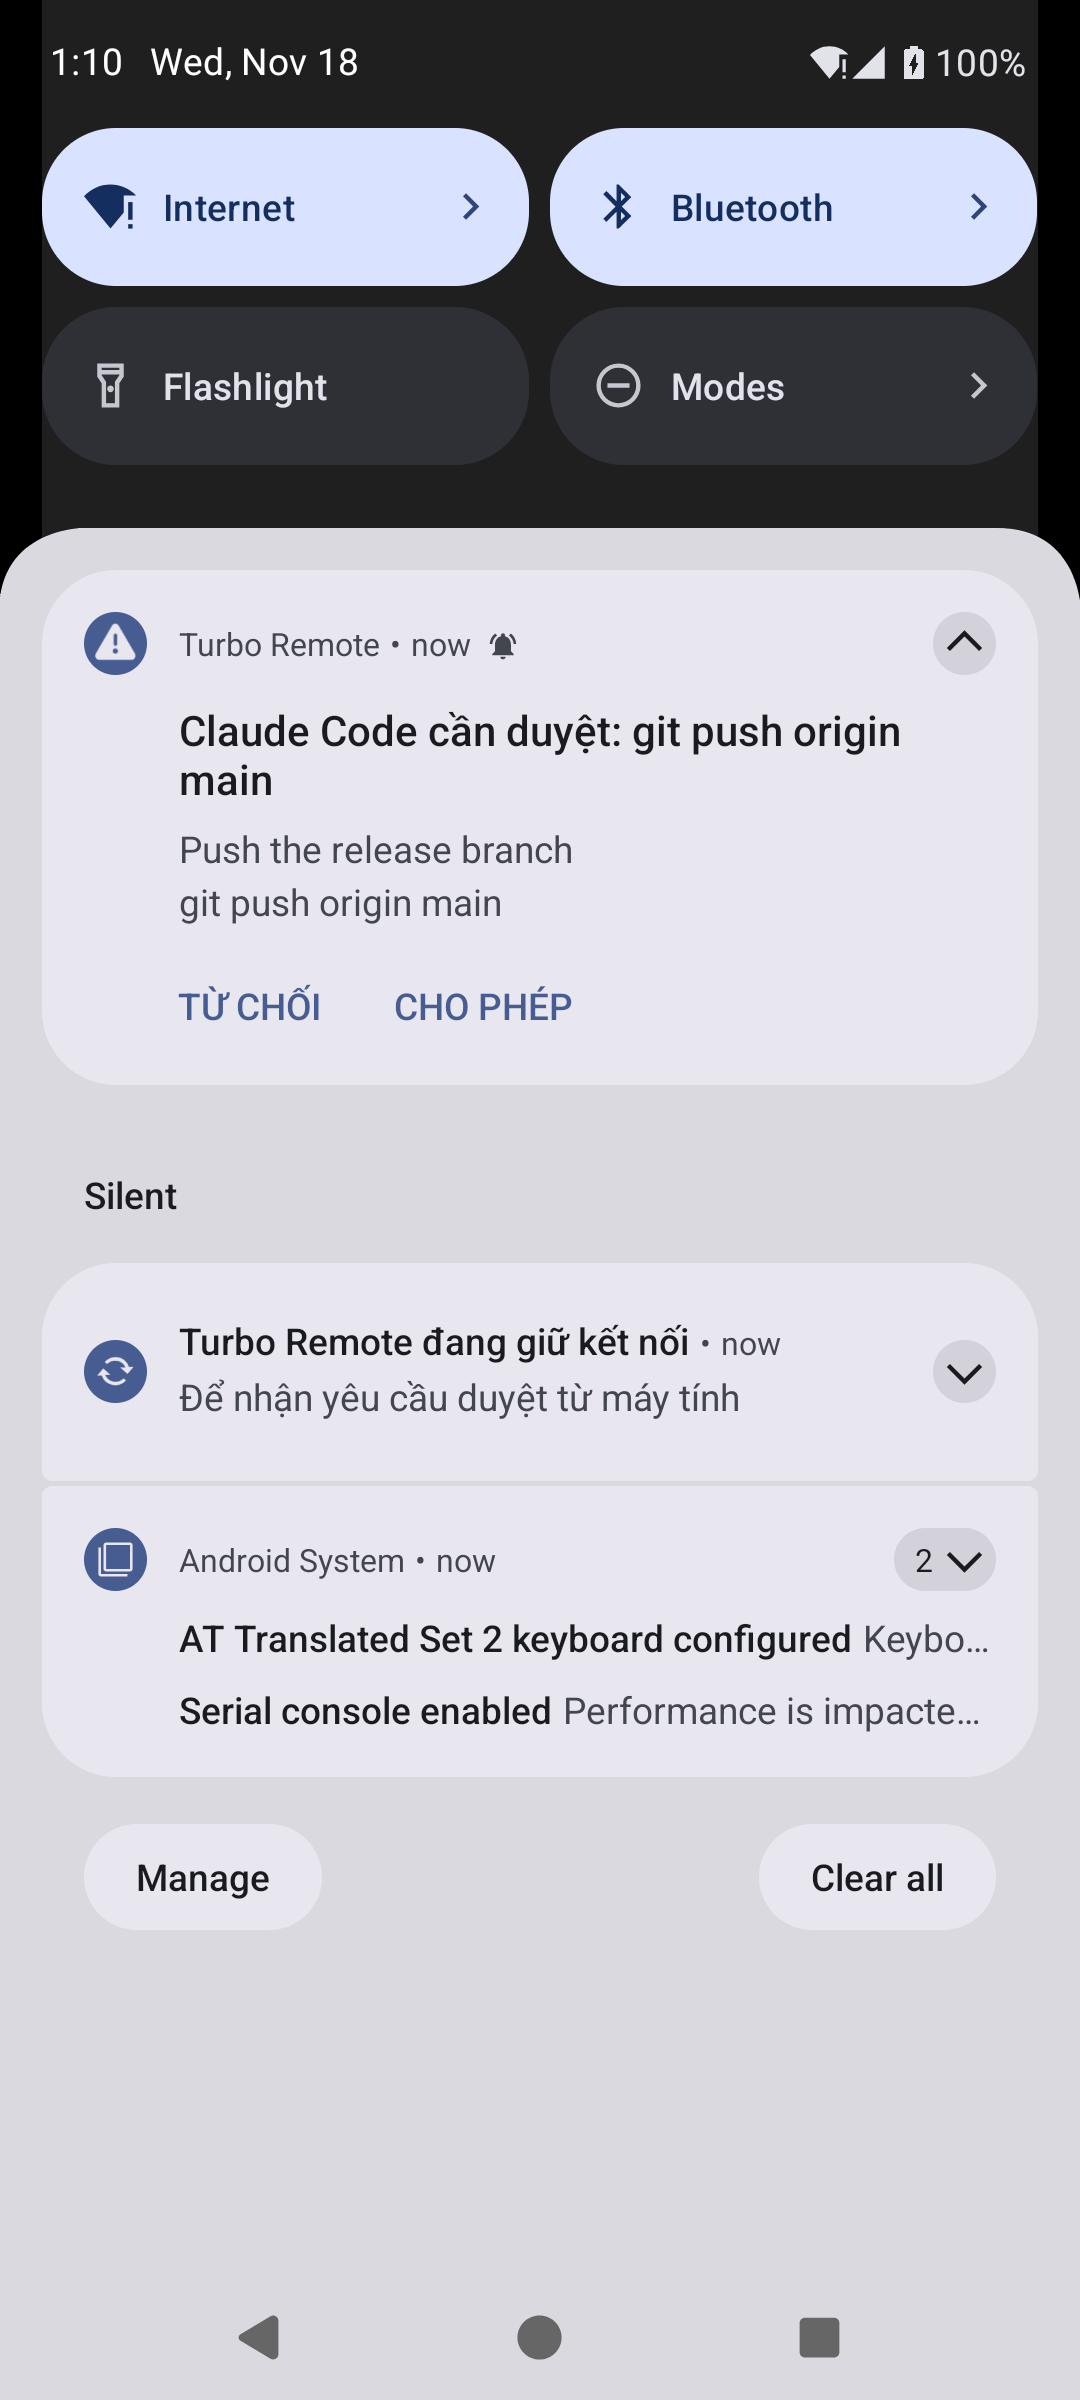
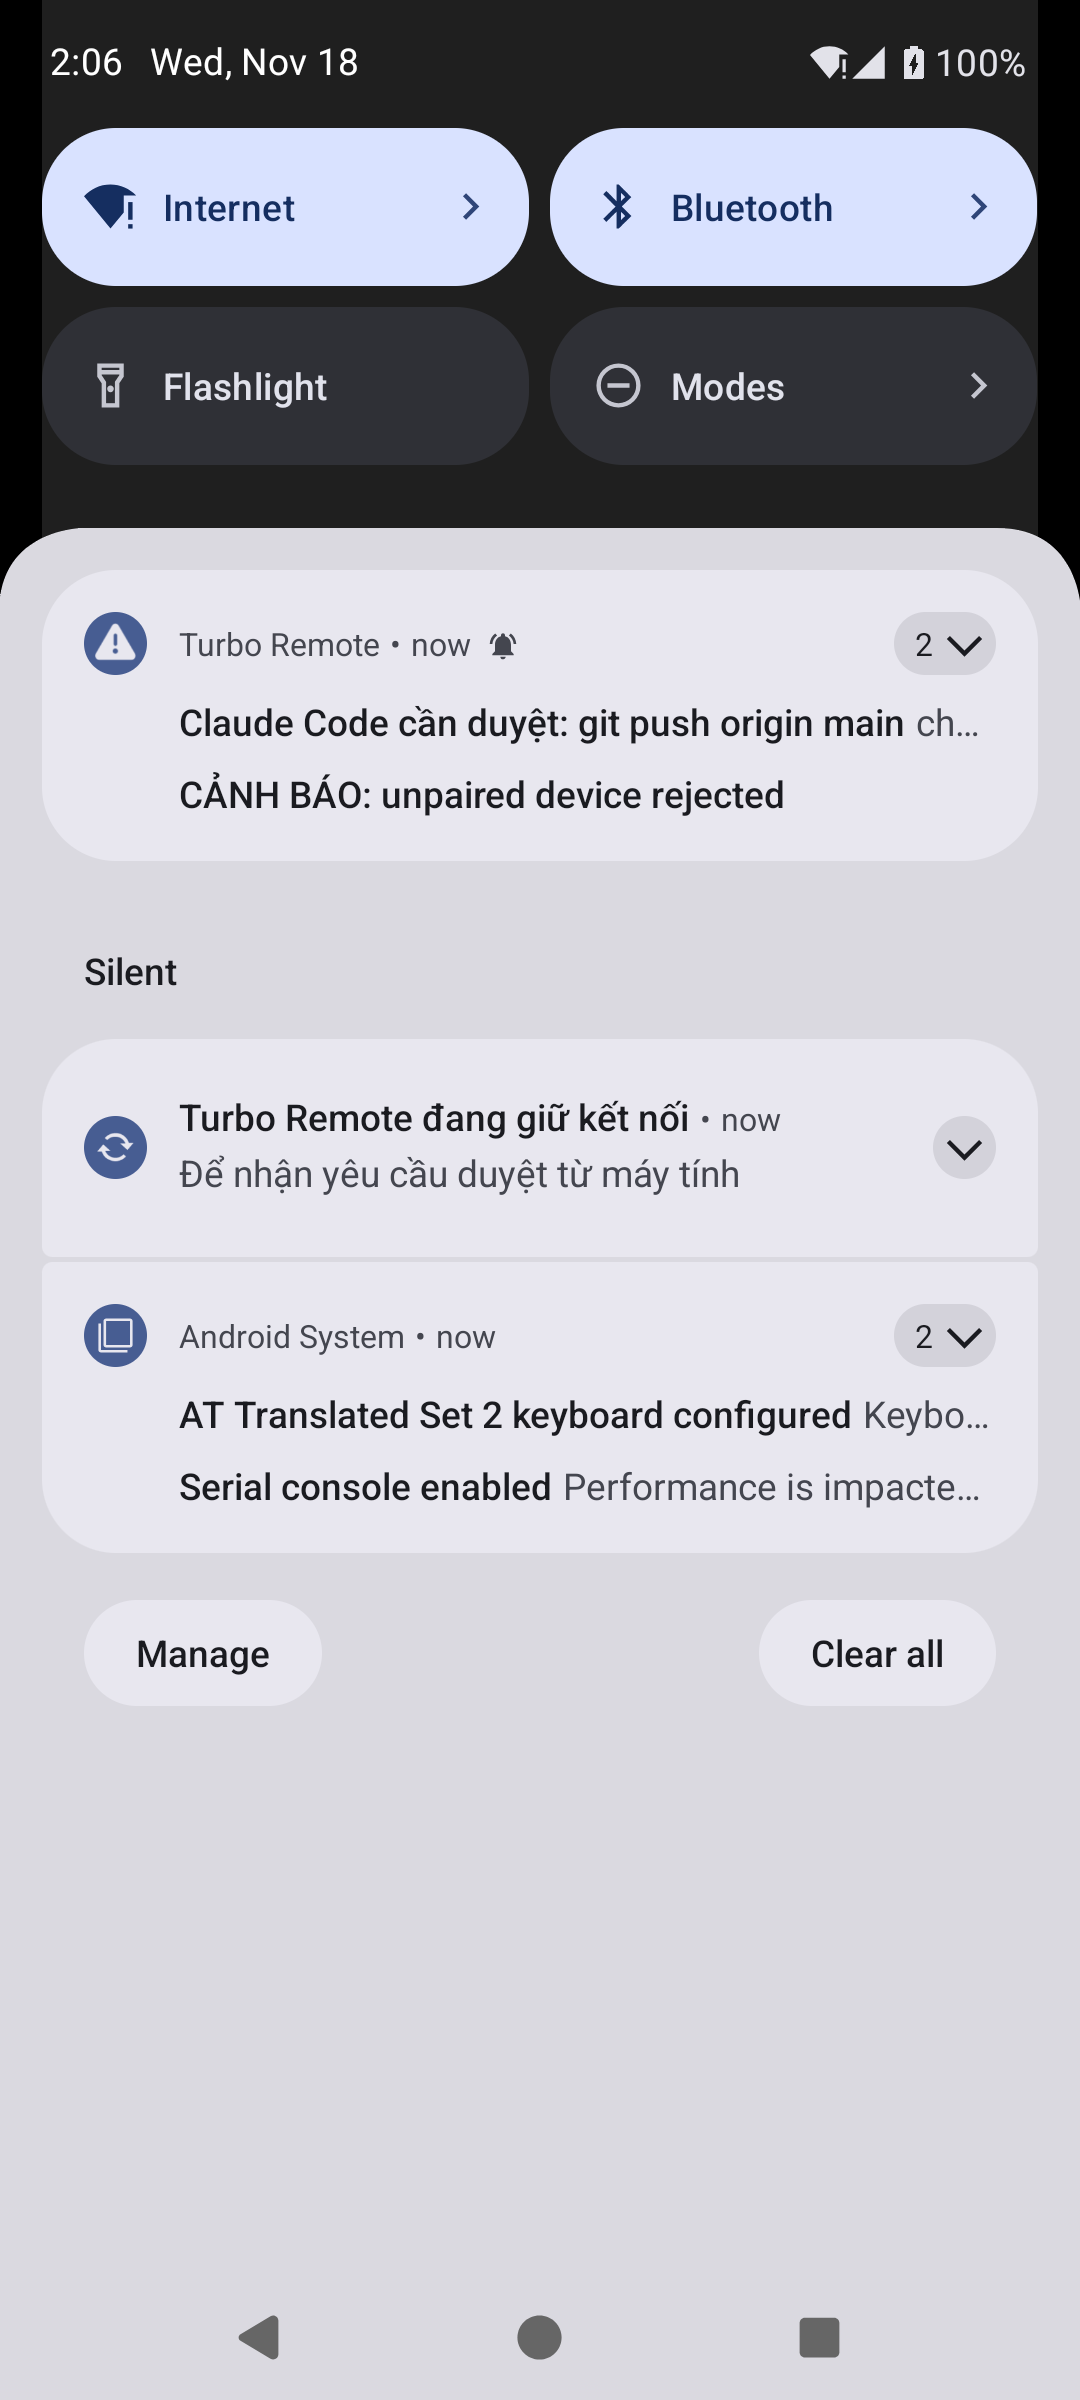
design: 18/11 fix briefs and v4 emulator screenshots (fake hub)

diff --git a/design/BRIEF_FIX_HUB_18-11.md b/design/BRIEF_FIX_HUB_18-11.md
@@ -1,0 +1,24 @@
+# Brief: hub fixes from the 18/11 audit (backend)
+
+You can only read and edit files; you cannot run commands. The PM runs the tests and sends failures back. Do not read .env files. Do not touch `android/`, `desktop-mcp/`, `design/`.
+
+Read first: `design/AUDIT_DEM_18-11.md` (rows referenced below), then each file before editing. Match the existing style. Add or update tests in `hub/tests/` for every behaviour change (look at `hub/tests/conftest.py` and existing tests for the `Env` fixture pattern).
+
+## Fix
+1. Row 1: `TaskManager._check_pc` must read the real keys from desktop-mcp `system_state` (`sessionLocked`, `secureDesktopActive`, `onBattery`, `batteryPercent`, `displayOff`) and keep accepting the old snake_case keys. A locked PC or a UAC/secure desktop refuses the task as today's `locked` does. Test both key styles.
+2. Row 7: `TaskManager.gate` (or the `/internal/approve` route) fills `window`, `control` (`name`, else `ref`) and `action` from `call["input"]` when they are missing at the top level, so the audit and the live `tool_call` events are not null. Test it.
+3. Row 11: `summaries.py` handles the plain-text `windows_list` result (count non-empty lines that look like window lines) and returns `listed_windows`. Row 30 (hub part only): use `inp.get("window") or ""` instead of the word "control"; a `launch_app` result with `pending: true` and no windows becomes a short "Waiting for <matched>" style summary (add a key, e.g. `launch_pending`, with an English render and keep the Vietnamese render pattern used in the file). Tests in `hub/tests/test_tasks.py` style.
+4. Row 13: when a task ends without a `final` event (STOP, failure), record the usage already seen in `task.live`; include `cache_read` and `cache_create` in `report()` totals as separate fields (do not change existing field meanings). Test.
+5. Row 18: `revoke()` also calls `save_sessions()`; the `/events` stream stops yielding events once its session is gone (check before each yield, not only on the 15 s heartbeat). Test revoke + persist.
+6. Row 19: `source(request)` trusts `Cf-Connecting-Ip` only when the TCP peer is a loopback host and `"cloudflare"` is in `settings.connections`; never attribute lockout strikes to a loopback address from a proxied request. Test.
+7. Row 25: the generated MCP config file is written to a fixed path under the hub data dir (or unlinked on kill); `taskkill`/`tasklist` calls made from async code run via `asyncio.to_thread`.
+8. Row 20 (hub part): explicit `argtypes`/`restype` for the Win32 calls in `hub/turbo_hub/reaper.py` and `hub/scripts/cc_permission_hook.py`.
+9. Row 4: `screen.py` redaction also blacks out windows whose title is an owner-approval dialog (`claude code cần duyệt`, `claude code needs approval`, `turbo-desktop: approve action?`, case-insensitive exact title) and windows owned by a password-manager process (`bitwarden`, `keepass`, `keepassxc`, `1password`, `lastpass`, `dashlane`, `nordpass`, `roboform`, `enpass`, `protonpass`). Get the process name in `enum_windows()` via `GetWindowThreadProcessId` + `QueryFullProcessImageNameW` (ctypes, with argtypes). Keep the window dict shape backward compatible (`title`, `rect`, add `process`). Extend `test_screen.py`.
+10. Row 26 (hub part): `TaskManager.history()` returns the final answer text (`answer`, ≤2000 chars) for tasks it knows, including after a restart: store it in `tasks.jsonl` next to `text`.
+
+## Do not
+- Do not change pairing, signing, session or TOTP logic beyond item 5.
+- Do not weaken the hard floor (STOP, hash-chained audit, signed non-local requests, local-only pairing, secret redaction, owner-approval prompts).
+
+## Final answer
+Changed files, tests added, anything you could not do and why. Under 250 words.

diff --git a/design/BRIEF_FIX_DESKTOP_18-11.md b/design/BRIEF_FIX_DESKTOP_18-11.md
@@ -1,0 +1,22 @@
+# Brief: desktop-mcp fixes from the 18/11 audit (backend)
+
+You can only read and edit files; you cannot run commands. The PM runs the tests and sends failures back. Do not read .env files. Only edit `desktop-mcp/`.
+
+Read first: `design/AUDIT_DEM_18-11.md` (rows referenced below), then each file before editing. Add unit tests in `desktop-mcp/tests/` for every behaviour change. Tests must never touch windows they did not launch and must pass with `TURBO_DESKTOP_NO_INPUT=1` (no real mouse/keyboard); use monkeypatch/fakes like `tests/test_efficiency.py` and `tests/test_security.py`.
+
+## Fix
+1. Row 3 (security): in `Desktop.launch`, resolve the target first (`resolve_launch_target`), then classify with the resolved executable stem AND the matched display name, so "Bitwarden", "Windows PowerShell", "Registry Editor" or a session-restore app launched by Start Menu name hit the same deny/ask/session_restore rules as their exe. For a `.lnk`, use the shortcut's target exe if `resolve_launch_target` exposes it (read that function); otherwise match the display name against the rule's process list after folding (lowercase, no spaces). Test with a fake resolver: "Bitwarden" → denied; "Windows PowerShell" → ask/deny per the shells rule.
+2. Row 5 (security): extract the password-field black-out used by `Desktop.screenshot` into one helper and call it in `_ocr_window` and `_thumb` before OCR/saving. In `server.py`, wrap `screenshot` in `_guard` like the other tools. Do not add new parameters to tool signatures (token budget). Test the helper with a fake image and fake rects.
+3. Row 6 (security): add `PROMPT_TITLE.lower()` to `OWNER_APPROVAL_TITLES`; check `OWNER_APPROVAL_TITLES` in `classify_action` too (deny, rule `owner-approval`); pass `class_name=d.get("class")` from `Desktop.act`. Test.
+4. Row 15: `rules.build_ruleset` falls back to top-level keys (`preset`, `input_lock`, `indicator`, `apps`) when `[desktop]` exists but lacks them. Test with a toml that has both `preset = "strict"` at top level and a `[desktop.secrets]` table.
+5. Row 21: in local `whole_task` input-lock mode, keep the lock across model think time: raise the idle linger to 45 s for `whole_task` (keep 8 s for `real_input`). The hard cap `max_seconds` still applies. Test the chosen linger per mode.
+6. Row 22: `_is_caption_button` hides a bare "Minimize"/"Maximize"/"Restore", but a bare "Close" only when its AutomationId is "Close" (read `ctrl.AutomationId` safely); "Close <window title>" stays hidden. Update `tests/test_efficiency.py::test_caption_buttons_hidden_unless_queried`.
+7. Row 23: `Desktop.act` with neither `window` nor `ref` raises `ToolError("need window= or a ref like w1:e12")`; `_parse_ref` accepts "[w1:e12]". Test.
+8. Row 24: `winsys.capture_window` frees GDI objects in `finally`.
+9. Row 20 (desktop part): explicit `argtypes`/`restype` for `OpenInputDesktop`/`CloseDesktop` and other raw ctypes Win32 calls in `winsys.py` and `tests/locking.py` if present.
+
+## Do not
+Do not weaken the hard floor: secret-window deny zone, password values never returned, STOP, audit, input lock and glow, owner-approval deny zone. Do not change tool names or add tool parameters.
+
+## Final answer
+Changed files, tests added, anything not done and why. Under 250 words.

diff --git a/design/BRIEF_FIX_ANDROID_18-11.md b/design/BRIEF_FIX_ANDROID_18-11.md
@@ -1,0 +1,26 @@
+# Brief: Turbo Remote (Android) fixes from the 18/11 audit (frontend)
+
+You can only read and edit files; you cannot run commands. The PM builds, runs the tests and the emulator, and sends failures back. Only edit `android/`. Do not read .env files.
+
+Before editing, read and apply these skills, and name the ones you used in your final answer:
+- `C:\Users\TRUNG THANH\.claude\skills\frontend-design\SKILL.md`
+- `C:\Users\TRUNG THANH\.claude\skills\web-design-guidelines\SKILL.md`
+- `D:\Project\thu-thach-1tr\07_cong-cu\design-skills\ui-ux-pro-max-skill\.claude\skills\ui-ux-pro-max\SKILL.md`
+
+Then read `design/AUDIT_DEM_18-11.md` and `design/LIVE_V3.md`, and the Kotlin files you change. Keep the existing theme tokens (`LocalTurboColors`, `TurboType`, `TurboRadii`, `TurboSpacing`), Vietnamese + English strings in both `res/values*/strings*.xml` (escape apostrophes as `\'`), and performance rules from `android/PERF.md` (no always-running animations, read animated values in draw).
+
+## Fix
+1. Row 9: `CfLogin` WebView: set `webViewClient = WebViewClient()` and `settings.domStorageEnabled = true`; show a proper empty state (icon + one sentence + where to set the URL) when no Cloudflare URL is configured.
+2. Row 16: Audit screen: readable lines for `cc_permission_requested` ("Claude Code xin chạy: <control>") and `cc_permission_resolved` ("<decision> bởi <phone|PC|Claude Code>"), include both in the approvals filter; map `whole_task`/`real_input` to the existing human strings.
+3. Row 27: while `Graph.paused` is true, the header shows a paused state (warn colour dot, "Đã tạm dừng: bạn đang dùng máy") and the edge glow/indicator is idle.
+4. Row 28: Settings relay field gets its own hint string; show success/error after relay pairing; adding a hub URL without a scheme prefixes `http://` instead of crashing (validate in the Settings action and guard `HubClient.build` against `IllegalArgumentException`).
+5. Row 17: on the Welcome screen add one short line under the preset list: the PC's own preset (set during `turbo_hub setup`) wins after pairing. Do not change pairing protocol.
+6. Row 30 (app part): in `Graph.kt` treat `via` values `input` and `ocr` as real input in the step labels.
+7. Row 26 (app part): history items may now carry `answer` from `GET /tasks`; parse it and show it when the owner taps a past task, falling back to the current message if absent.
+8. Approvals card: for `fromClaudeCode` approvals add a small "Claude Code" label chip at the top of the card (use existing chip styling) so it is clear the request is not from the PC agent.
+
+## Tests
+Add JVM unit tests in `android/app/src/test/java/dev/turbodesktop/remote/` for any pure logic you add (URL normalising, audit line mapping, history `answer` parsing). Keep them independent of Android framework classes (move logic into small pure functions if needed).
+
+## Final answer
+Changed files, tests added, skills applied, anything not done and why. Under 250 words.

diff --git a/design/BRIEF_FIX_ROUND2_18-11.md b/design/BRIEF_FIX_ROUND2_18-11.md
@@ -1,0 +1,16 @@
+# Brief: round 2 of the 18/11 audit fixes
+
+You can only read and edit files; you cannot run commands. The PM runs the tests. Do not read .env files.
+Read `design/AUDIT_DEM_18-11.md` rows 14 and 29, `CODEBASE.md` and `agent.md` first.
+
+## Part A (backend, hub only): row 14
+`_extract_app` in `hub/turbo_hub/manager.py` misses most apps after B4. Make `topApps` in `/report` count the app for:
+- `launch_app` results (window title / `matched`), remembering `window id -> app name` per task;
+- `act`, `inspect_compact`, `batch_actions` calls that only give a window id (`w3`) or a ref (`w3:e5`), using that per-task map;
+- `batch_actions` steps (each step may carry `window` or `ref`).
+The tool result text arrives in the `tool_result` event (see how `summaries.py` unwraps it); keep the map on the `Task` object. Add tests in `hub/tests/test_report.py` with a FakeRunner script (see existing tests there).
+
+## Part B (Android tests): row 29
+Add Compose UI tests in `android/app/src/androidTest/java/dev/turbodesktop/remote/UiTest.kt` following the existing tests in that file, for: the approvals card of a Claude Code request (chip "Claude Code", the command detail text, no countdown), the full-screen player opening and the `zoomableScreen` tag being present, and the Báo cáo tab showing its tabs. Use the same setup helpers the existing tests use; if a test needs state, set the `Graph` flows directly as existing tests do. Do not change production code except adding `testTag`s if a node cannot be found otherwise.
+
+Final answer: changed files and tests, under 150 words.
